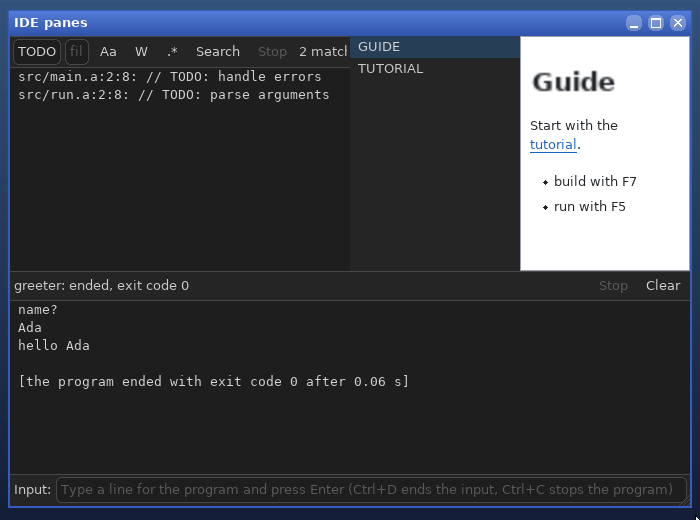
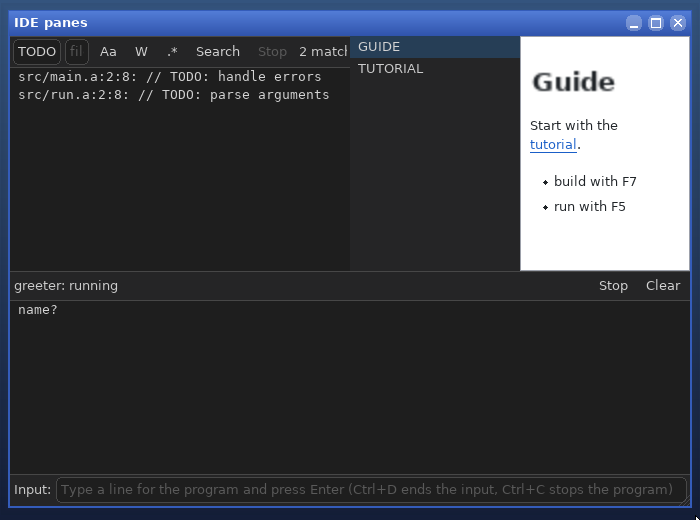
Book: more chapters, samples and review fixes (work in progress)
Snapshot of the writers' and reviewers' work: language guide, system and crypto chapters,
GUI and terminal material, screenshots, and fact-check corrections of finished chapters.

Claude-Session: https://claude.ai/code/session_011vdrJmb4wU5Ph92cpEdUu6

diff --git a/docs/book/src/11-types-and-values.md b/docs/book/src/11-types-and-values.md
@@ -186,23 +186,63 @@ What to notice:
 
 ## Floating point with double
 
-`double` is an IEEE 754 binary64 number, and `float` is another name for it. A has no hardware floating point instructions in its output: the compiler calls a built-in **software** implementation (`dfloat`, loaded only when a program uses doubles), so results are bit for bit identical on every processor and system. Literals like `1.5`, `2e-3` and `1_000.25` are rounded exactly like a C compiler does.
+`double` is an IEEE 754 binary64 number, the same format as the `double` of C, and `float` is another name for it: both are 8 bytes. The compiler calls a built-in **software** implementation (the module `dfloat`, loaded only when a program uses a floating point value), so results are bit for bit identical on every processor and system. The price is speed: an addition takes tens of nanoseconds instead of one, which is fine for tools, simulations and plots, but not for millions of calls. This section stays at the language level; [the numbers chapter](#chap-numbers) goes deeper into `double`, `dfloat` and `dmath`.
 
-The compiler converts between `int` and `double` automatically: an `int` in a mixed expression becomes a `double`, and assigning a `double` to an `int` needs a cast, which truncates toward zero. The operators `+ - * /`, unary `-`, the six comparisons, `+= -= *= /=`, `++`, `--`, `?:` and the truth test work on doubles, and doubles can be fields, array elements, parameters and results. `printlnDouble`, `printDouble`, `doubleToText`, `doubleToFixed(d, n)`, `doubleToSci(d, n)`, `parseDouble(text)`, `isNaN`, `isInf` and `isFinite` are the conversion helpers, and the `dmath` module has `sqrt`, `pow`, `sin`, `cos`, `exp`, `log`, `floor`, `ceil` and many more.
+### Literals, conversions and operators
 
-{{sample lang/double_basics}}
+A floating point literal has a decimal point or an exponent: `1.5`, `2e-3`, `1_000.25`. It is rounded exactly (to nearest, ties to even), like a C compiler does. An `int` in a mixed expression is converted to `double`. Assigning a `double` to an `int` needs a **cast**, which truncates toward zero. The operators `+ - * /`, unary `-`, the six comparisons, `+= -= *= /=`, `++`, `--`, `?:` and the truth test (`if (d)` is true when `d != 0`) all work.
+
+{{sample lang/double_values}}
 
 What to notice:
 
-- `0.1 + 0.2` is `0.30000000000000004`: binary floating point cannot represent 0.1 exactly. That is how every IEEE system behaves.
-- `10 / 4` is the integer division 2, converted afterwards to `2.0`. Write `10.0 / 4` for 2.5.
-- `__bits(d)` returns the 64 raw bits of a double as an `int` and `__dbl(i)` converts back; `1.0` is `3ff0000000000000`.
-- `printf` from the prelude does not know `%f` and prints it unchanged. Use `printlnDouble`, `doubleToFixed`, or `printfd` from the `cfloat` module, which understands `%f %e %g %a` but takes the raw bits of the value: `printfd("%.2f", __bits(d))`.
-- Software arithmetic is fast enough for tools and simulations, but each operation is far slower than a hardware instruction: a million additions in a loop took about 75 milliseconds on the machine this book was written on.
+- `n * a` converts `n` first; `n / 2` divides two `int`s **before** the conversion, so it is 1, not 1.5. Write `n / 2.0` for a real division.
+- `(int) -7.75` is -7: truncation toward zero, not rounding down. `(int) 7.9` is 7.
+- Comparisons give 0 or 1, and may mix `int` and `double` (`n > 2.5`).
+- `total++` adds 1.0.
+- `float` and `double` are the same type, so `sizeof(float)` is 8.
+
+### Doubles in data
+
+A double can be a variable, a global, a struct field, an array element, a parameter and a result, like any other type. A pointer to `double` steps by 8 bytes.
+
+{{sample lang/double_data}}
+
+What to notice:
+
+- `v.x = 3;` converted the `int` 3 to `3.0` when it was stored.
+- `dot` receives two structs by value, and `scaled` returns a struct of doubles: all the rules of [chapter 14](#chap-functions) apply.
+- `samples[i] = i * 0.25;` is an `int` times a `double`: the result is a double.
+
+### Printing, parsing and inspecting
+
+`printf` from the prelude does not understand `%f`. Use the double helpers: `printlnDouble(d)` and `printDouble(d)` write the **shortest text that reads back as exactly the same number**; `doubleToText(d)` returns the same text as a string; `doubleToFixed(d, n)` rounds to `n` decimals; `doubleToSci(d, n)` writes scientific notation; `parseDouble(text)` reads a number; `isNaN`, `isInf` and `isFinite` classify a value. `__bits(d)` returns the 64 raw bits of a double as an `int`, and `__dbl(i)` builds a double from 64 bits.
+
+{{sample lang/double_text}}
+
+What to notice:
+
+- `0.1 + 0.2` prints as `0.30000000000000004`, and `2.0 / 3` as `0.6666666666666666`: those are the shortest texts that identify the numbers. Binary floating point cannot hold 0.1 exactly; every IEEE system behaves like this.
+- Division by zero gives infinity and `inf - inf` is **NaN** ("not a number"). A NaN is not equal to anything, not even itself: `nan == nan` is 0. Use `isNaN`.
+- `__bits(1.0)` is `3ff0000000000000`. Adding 1 to the bits of `1.0` gives the next larger double, `1.0000000000000002`.
+- The C library functions `printfd`, `sprintfd` and the like (module `cfloat`) understand `%f %e %g %a` but take **bit patterns**, not doubles: write `printfd("%.2f", __bits(d))`. Passing the double itself converts it to an `int` first and prints nonsense, without a warning.
+
+### Mathematics
+
+The mathematical functions live in the `dmath` module: `sqrt cbrt pow exp exp2 expm1 log log2 log10 log1p hypot sin cos tan asin acos atan atan2 sinh cosh tanh asinh acosh atanh floor ceil round trunc fabs fmod fmin fmax copysign`, the constants `PI E TAU SQRT2 LN2 LN10 INFINITY EPSILON`, and `nan()`. They are the functions of C's `<math.h>`, correctly rounded.
+
+{{sample lang/double_math}}
+
+What to notice:
+
+- Call them with the module name: `dmath.sqrt(2)`. A bare `sqrt(...)` after `import dmath;` is **not** the same function: it is the C library's version, which expects a bit pattern. In a test, `sqrt(2.0)` printed `2.1906148709472164e+18`, a wrong result, while `dmath.sqrt(2.0)` printed `1.4142135623730951`.
+- The functions take `int` arguments too, as in `dmath.sqrt(2)`: the compiler converts them to `double`.
+- `dmath.round(area)` is a `double` (`20.0`); the `(int)` cast makes it an integer.
+- `sin(PI / 6)` is `0.49999999999999994`, as in C: the result is exact for the rounded input, which is not exactly pi / 6.
 
 ::: note
 
-Older parts of the C library reference describe a double as an `int` that holds the bit pattern, handled by functions such as `dlit("2.5")`, `itod(1)` and `dadd(a, b)`. Those functions still exist, and `printfd` still expects bit patterns, but you can simply write `a + b` with `double` variables.
+Older parts of the C library reference describe a double as an `int` that holds the bit pattern, handled by functions such as `dlit("2.5")`, `itod(1)` and `dadd(a, b)`. Those functions still exist, and `printfd` still expects bit patterns, but with the `double` type you can simply write `a + b`.
 
 :::
 
@@ -215,10 +255,10 @@ Older parts of the C library reference describe a double as an `int` that holds 
 - `size_t` is `uint64`; `ssize_t`, `intptr_t` and `ptrdiff_t` are `int64`.
 - A cast `(type) x` truncates, extends or reinterprets; `sizeof` gives sizes in bytes at compile time.
 - Literals: `42`, `0xFF`, `0b1010`, `1_000`, `'a'`, `"text\n"`, `true`, `false`, `null`; adjacent strings are joined.
-- `double` is software IEEE 754: exact and portable, but not fast.
+- `double` (alias `float`) is IEEE 754 binary64, done in software: identical on every target, but not fast. Mix it with `int` freely, cast with `(int)` to truncate, print with `printlnDouble` or `doubleToFixed`, and call the maths functions as `dmath.sqrt(x)`.
 
 ## Where next
 
 - [Variables and operators](#chap-variables-and-operators) shows how to declare and combine values.
 - [Memory and pointers](#chap-memory-and-pointers) goes deeper into pointers and the heap.
-- [The API reference of dmath](#api-dmath) lists the floating point functions.
+- [The numbers chapter](#chap-numbers) covers `double`, `dfloat` and `dmath` in depth; the [API reference of dmath](#api-dmath) lists the functions.
